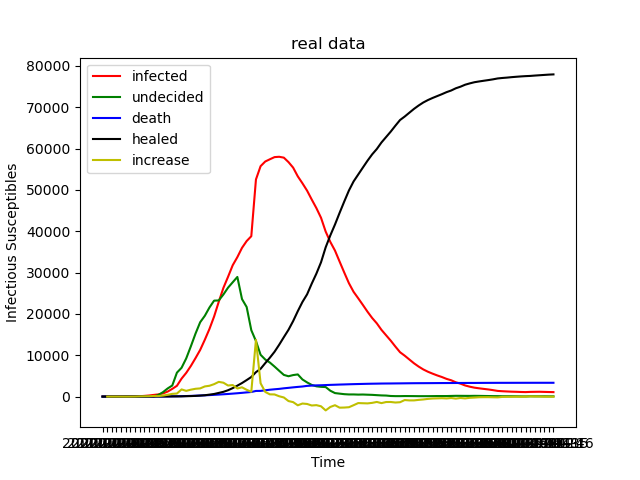
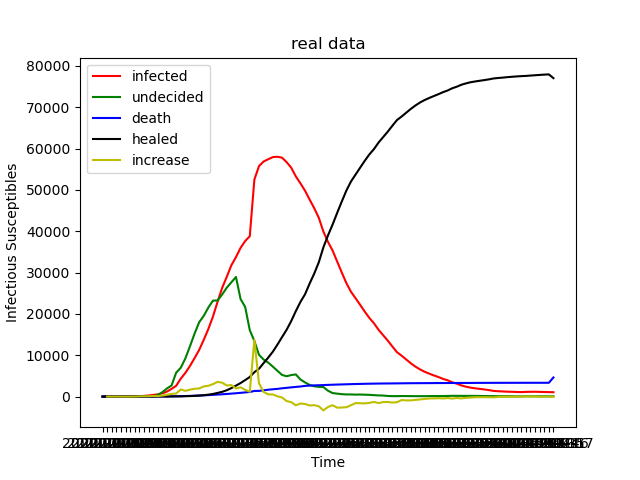
更新疫情数据至2020年4月17日24时，增加绘制2020年3月以后的每日新增病例的绘图。

diff --git a/SIR.py b/SIR.py
@@ -132,5 +132,17 @@ if __name__ == "__main__":
 	pl.xlabel("Time")
 	pl.ylabel("Infectious Susceptibles")
 	pl.savefig("test.png")
+	
+	# 疫情缓解后的数据作图
+	# 数据作图
+	data = data.iloc[51:, :]
+	fig = pl.figure()
+	pl.subplot(111)
+	pl.plot(data["感染者"]-data["感染者"].shift(1), "-y", label = "increase")
+	pl.legend(loc = 0)
+	pl.title("increse")
+	pl.xlabel("Time")
+	pl.ylabel("increase cases")
+	pl.savefig("realdata_last.png")
 		
 	
